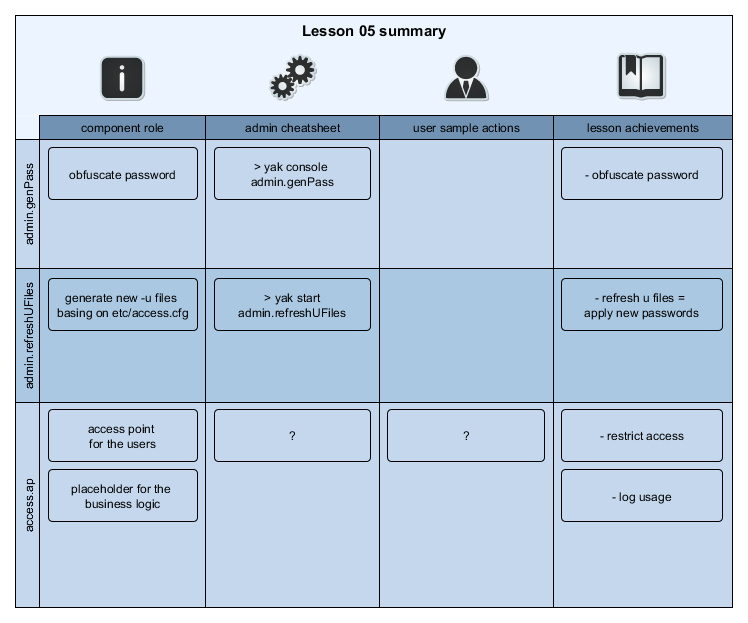
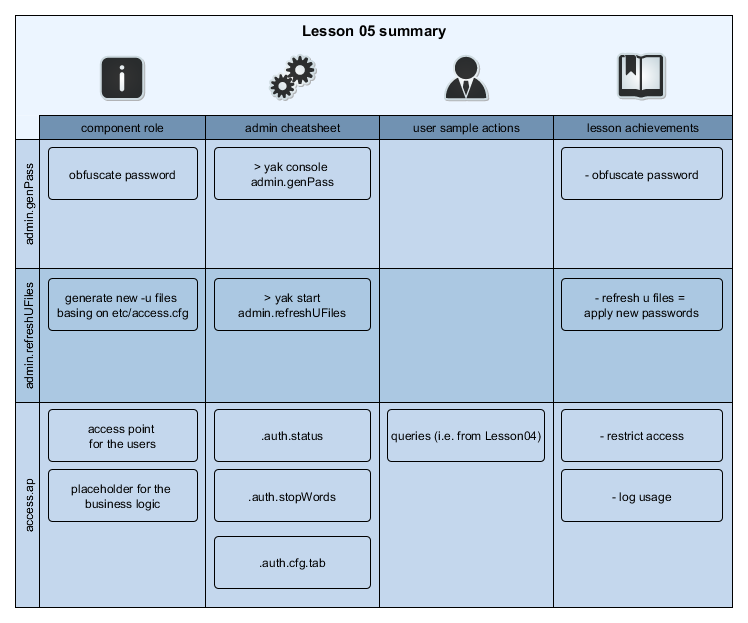
update lesson summary figure
update lesson summary figure and add small changes to STRICT mode comments

diff --git a/tutorial/Lesson05/README.md b/tutorial/Lesson05/README.md
@@ -203,7 +203,7 @@ As mentioned before, `FLEX` allows to execute queries that conform to allowed na
 contain any words specified in `stopWords`:
 
 ```
-// query executed on access.ap as 'demo' user
+/ execute on access.ap (port 17050) as 'demo' user
 q).example.tradeStats[]
 hh| cnt  
 --| -----
@@ -213,7 +213,7 @@ hh| cnt
 It is also possible to pass nested function calls as parameters to predefined queries:
 
 ```
-// query with function call as a parameter
+/ query with function call as a parameter
 q).example.tradeStats[1+1]
 hh| cnt  
 --| -----
@@ -222,7 +222,7 @@ hh| cnt
 Anonymous functions are also allowed in queries, unless they contain any `stopWords`:
 
 ```
-// query with anonymous function as parameter (might cause side-effects and be potentially dangerous)
+/ query with anonymous function as parameter (might cause side-effects and be potentially dangerous)
 q).example.tradeStats[{sum x}[1 1]]
 hh| cnt  
 --| -----
@@ -240,10 +240,10 @@ all namespaces). We need to add a new connection to `core.rdb` process but with 
 (demo/demouser):
 
 ```
-/ Queries are executed on access.ap as technical user (tu/tuuser).
+/ execute on access.ap (port 17050) as technical user (tu/tuuser).
 q).hnd.hopen[enlist[`strict.demo]!enlist[`$"::17011:demo:0xaaaba3a1bbbdabbc"];100i;`eager]
 
-/ We can see new connection in .hnd.status table
+/ check new connection in .hnd.status table
 q).hnd.status
 server
 ---------
@@ -252,7 +252,7 @@ core.hdb
 core.rdb
 strict.demo
 
-/ We can now execute queries in a parse-tree form
+/ execute queries in a parse-tree form
 q)key .hnd.h[`strict.demo] (`.hnd.status;::)
 server
 ---------
@@ -268,8 +268,11 @@ server
 core.hdb 
 core.tick
 access.ap
+```
 
-/ But we are not allowed to pass functions not from .hnd namespace
+We are not allowed to pass functions not from `.hnd` namespace as parameters (function `key`).
+
+```
 q).hnd.h[`strict.demo] (key;`.hnd.status)
 'unsupported query type for check level: STRICT, query: (!:;`.hnd.status)
 / Which is allowed for technical user
@@ -280,8 +283,12 @@ server
 core.hdb 
 core.tick
 access.ap
+```
 
-/ String queries are also not allowed on STRICT level
+String queries are also not allowed on STRICT level. Such queries are usually send from kdbStudio or
+other IDEs.
+
+```
 q).hnd.h[`strict.demo] "1+1"
 'unsupported query type for check level: STRICT, query: "1+1"
 / Queries from other namespaces are blocked
@@ -352,9 +359,6 @@ q)select from trade
 'access denied
 ```
 
-> **TODO**
-> * Update resources figure
-> * Add some 'air' to STRICT section
 ## Summary
 
 ![Summary](summary_Lesson05.png)
